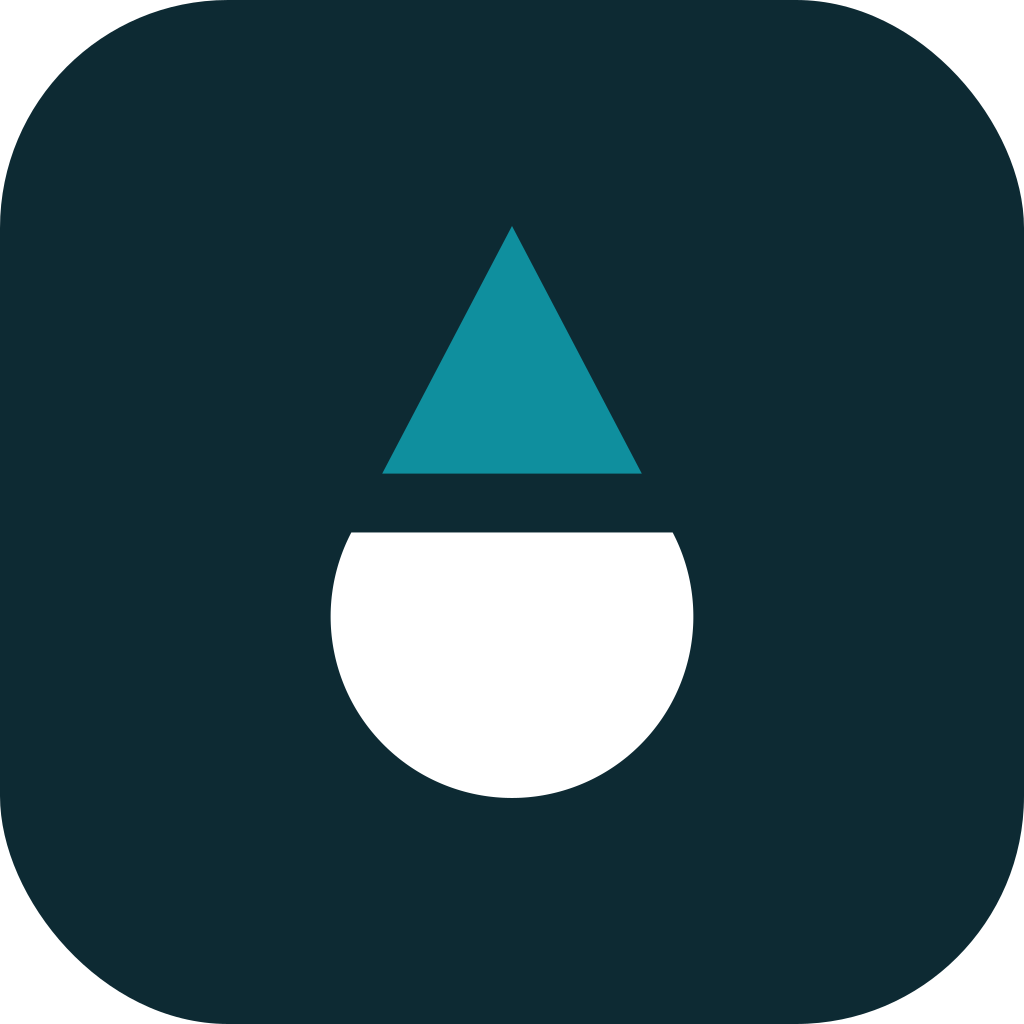
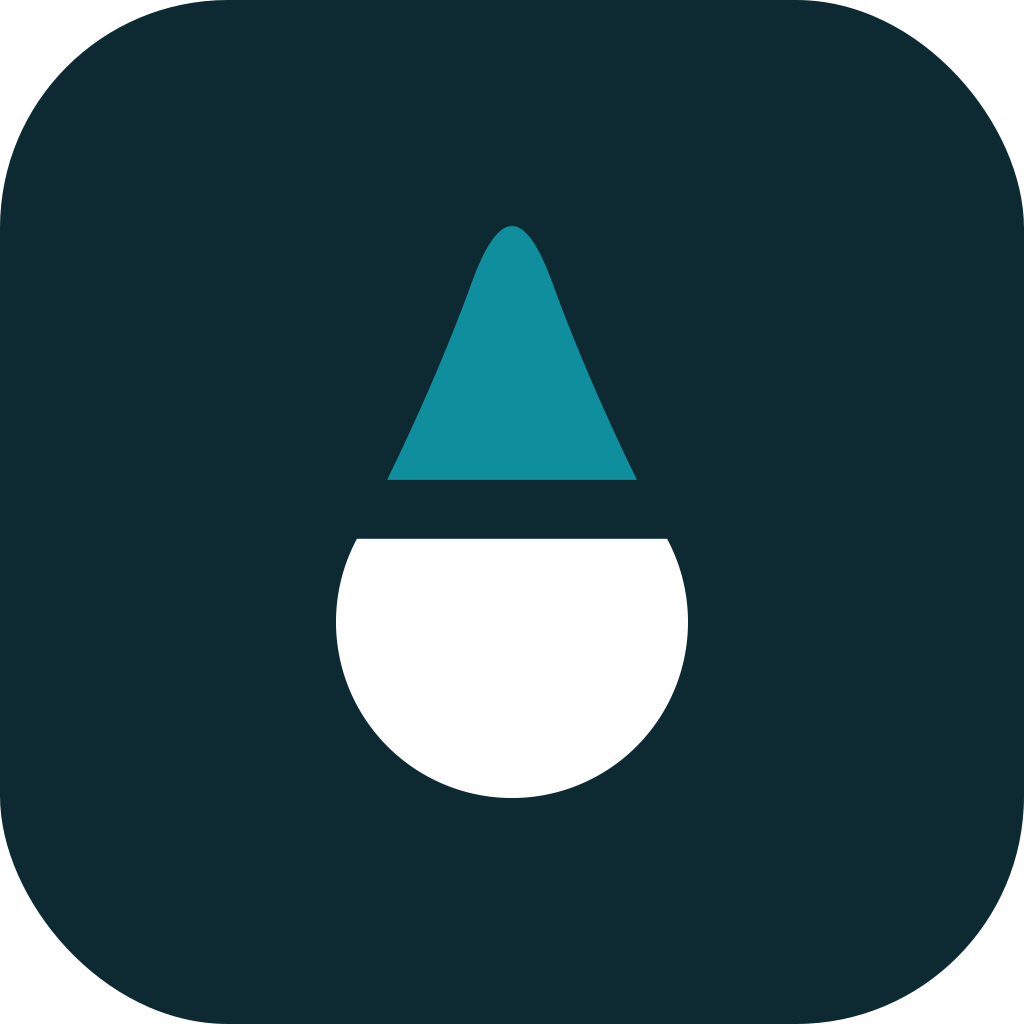
Round the droplet tip and narrow the N in the Veskana mark
- Mark: the upper piece is now a real droplet tip (rounded apex, curved
  shoulders tangent to the chamber circle) instead of a straight-sided
  triangle; geometry moved to mark_geom.py, which splits the outline with
  de Casteljau at the gap line
- Chamber is a clean circle segment, so the shoulders no longer show a notch
- Wordmark: per-letter widths, N narrowed from 72 to 64 units with the stroke
  weight kept, kerning retuned around it
- All SVG and PNG exports and the brand sheet regenerated

Claude-Session: https://claude.ai/code/session_01LhdfHU1fTB6igPiEEq2z7f

diff --git a/brand/veskana/veskana-brand.html b/brand/veskana/veskana-brand.html
@@ -48,10 +48,10 @@ footer{background:var(--ink);color:#9fc0c6;font-size:.85rem;padding-block:30px}
 </style></head><body>
 
 <div class="hero">
-  <svg class="" style="" preserveAspectRatio="xMidYMid meet" xmlns="http://www.w3.org/2000/svg" viewBox="0 0 797.1 132" role="img">
+  <svg class="" style="" preserveAspectRatio="xMidYMid meet" xmlns="http://www.w3.org/2000/svg" viewBox="0 0 782.6 132" role="img">
 <title>Veskana</title>
-<g transform="translate(-43.41862708490329,-16.097560975609756) scale(1.6098)"><path d="M50.0,10.0 L68.61,45.5 L31.39,45.5 Z" fill="#0F8F9E"/><path d="M26.97,53.93 A26.0,26.0 0 1 0 73.03,53.93 Z" fill="#FFFFFF"/></g>
-<g transform="translate(130.14,16.0) scale(1.0)" fill="#FFFFFF">
+<g transform="translate(-42.312030207253805,-11.715976331360947) scale(1.5621)"><path d="M31.55,45.00 C36.18,35.56 40.70,25.11 44.00,16.00 C48.10,4.67 51.90,4.67 56.00,16.00 C59.30,25.11 63.82,35.56 68.45,45.00 Z" fill="#0F8F9E"/><path d="M27.09,53.71 A26,26 0 1 0 72.91,53.71 Z" fill="#FFFFFF"/></g>
+<g transform="translate(127.59,16.0) scale(1.0)" fill="#FFFFFF">
 <g transform="translate(0,0)">
 <path d="M0,0 L14,0 L36,75.9 L58,0 L72,0 L43,100 L29,100 Z"/>
 </g>
@@ -70,12 +70,12 @@ footer{background:var(--ink);color:#9fc0c6;font-size:.85rem;padding-block:30px}
 <path d="M0,100 L14,100 L36,24.1 L58,100 L72,100 L43,0 L29,0 Z"/>
 <path d="M18,62 L54,62 L54,76 L18,76 Z"/>
 </g>
-<g transform="translate(491,0)">
+<g transform="translate(489,0)">
 <path d="M0,0 L14,0 L14,100 L0,100 Z"/>
-<path d="M58,0 L72,0 L72,100 L58,100 Z"/>
-<path d="M0,0 L14,0 L72,78 L72,100 L58,100 L0,22 Z"/>
+<path d="M50,0 L64,0 L64,100 L50,100 Z"/>
+<path d="M0,0 L14,0 L64,74.8 L64,100 L50,100 L0,25.2 Z"/>
 </g>
-<g transform="translate(595,0)">
+<g transform="translate(583,0)">
 <path d="M0,100 L14,100 L36,24.1 L58,100 L72,100 L43,0 L29,0 Z"/>
 <path d="M18,62 L54,62 L54,76 L18,76 Z"/>
 </g>
@@ -102,10 +102,10 @@ footer{background:var(--ink);color:#9fc0c6;font-size:.85rem;padding-block:30px}
   <p class="eyebrow">Varianten</p>
   <h2>Vier bestanden dekken alles</h2>
   <div class="grid c2" style="margin-top:24px">
-    <div><div class="plate"><svg class="" style="" preserveAspectRatio="xMidYMid meet" xmlns="http://www.w3.org/2000/svg" viewBox="0 0 797.1 132" role="img">
+    <div><div class="plate"><svg class="" style="" preserveAspectRatio="xMidYMid meet" xmlns="http://www.w3.org/2000/svg" viewBox="0 0 782.6 132" role="img">
 <title>Veskana</title>
-<g transform="translate(-43.41862708490329,-16.097560975609756) scale(1.6098)"><path d="M50.0,10.0 L68.61,45.5 L31.39,45.5 Z" fill="#0F8F9E"/><path d="M26.97,53.93 A26.0,26.0 0 1 0 73.03,53.93 Z" fill="#0D2A33"/></g>
-<g transform="translate(130.14,16.0) scale(1.0)" fill="#0D2A33">
+<g transform="translate(-42.312030207253805,-11.715976331360947) scale(1.5621)"><path d="M31.55,45.00 C36.18,35.56 40.70,25.11 44.00,16.00 C48.10,4.67 51.90,4.67 56.00,16.00 C59.30,25.11 63.82,35.56 68.45,45.00 Z" fill="#0F8F9E"/><path d="M27.09,53.71 A26,26 0 1 0 72.91,53.71 Z" fill="#0D2A33"/></g>
+<g transform="translate(127.59,16.0) scale(1.0)" fill="#0D2A33">
 <g transform="translate(0,0)">
 <path d="M0,0 L14,0 L36,75.9 L58,0 L72,0 L43,100 L29,100 Z"/>
 </g>
@@ -124,22 +124,22 @@ footer{background:var(--ink);color:#9fc0c6;font-size:.85rem;padding-block:30px}
 <path d="M0,100 L14,100 L36,24.1 L58,100 L72,100 L43,0 L29,0 Z"/>
 <path d="M18,62 L54,62 L54,76 L18,76 Z"/>
 </g>
-<g transform="translate(491,0)">
+<g transform="translate(489,0)">
 <path d="M0,0 L14,0 L14,100 L0,100 Z"/>
-<path d="M58,0 L72,0 L72,100 L58,100 Z"/>
-<path d="M0,0 L14,0 L72,78 L72,100 L58,100 L0,22 Z"/>
+<path d="M50,0 L64,0 L64,100 L50,100 Z"/>
+<path d="M0,0 L14,0 L64,74.8 L64,100 L50,100 L0,25.2 Z"/>
 </g>
-<g transform="translate(595,0)">
+<g transform="translate(583,0)">
 <path d="M0,100 L14,100 L36,24.1 L58,100 L72,100 L43,0 L29,0 Z"/>
 <path d="M18,62 L54,62 L54,76 L18,76 Z"/>
 </g>
 </g>
 </svg>
 </div><div class="cap">Horizontaal · standaard, voor header en briefpapier</div></div>
-    <div><div class="plate dark"><svg class="" style="" preserveAspectRatio="xMidYMid meet" xmlns="http://www.w3.org/2000/svg" viewBox="0 0 797.1 132" role="img">
+    <div><div class="plate dark"><svg class="" style="" preserveAspectRatio="xMidYMid meet" xmlns="http://www.w3.org/2000/svg" viewBox="0 0 782.6 132" role="img">
 <title>Veskana</title>
-<g transform="translate(-43.41862708490329,-16.097560975609756) scale(1.6098)"><path d="M50.0,10.0 L68.61,45.5 L31.39,45.5 Z" fill="#0F8F9E"/><path d="M26.97,53.93 A26.0,26.0 0 1 0 73.03,53.93 Z" fill="#FFFFFF"/></g>
-<g transform="translate(130.14,16.0) scale(1.0)" fill="#FFFFFF">
+<g transform="translate(-42.312030207253805,-11.715976331360947) scale(1.5621)"><path d="M31.55,45.00 C36.18,35.56 40.70,25.11 44.00,16.00 C48.10,4.67 51.90,4.67 56.00,16.00 C59.30,25.11 63.82,35.56 68.45,45.00 Z" fill="#0F8F9E"/><path d="M27.09,53.71 A26,26 0 1 0 72.91,53.71 Z" fill="#FFFFFF"/></g>
+<g transform="translate(127.59,16.0) scale(1.0)" fill="#FFFFFF">
 <g transform="translate(0,0)">
 <path d="M0,0 L14,0 L36,75.9 L58,0 L72,0 L43,100 L29,100 Z"/>
 </g>
@@ -158,21 +158,21 @@ footer{background:var(--ink);color:#9fc0c6;font-size:.85rem;padding-block:30px}
 <path d="M0,100 L14,100 L36,24.1 L58,100 L72,100 L43,0 L29,0 Z"/>
 <path d="M18,62 L54,62 L54,76 L18,76 Z"/>
 </g>
-<g transform="translate(491,0)">
+<g transform="translate(489,0)">
 <path d="M0,0 L14,0 L14,100 L0,100 Z"/>
-<path d="M58,0 L72,0 L72,100 L58,100 Z"/>
-<path d="M0,0 L14,0 L72,78 L72,100 L58,100 L0,22 Z"/>
+<path d="M50,0 L64,0 L64,100 L50,100 Z"/>
+<path d="M0,0 L14,0 L64,74.8 L64,100 L50,100 L0,25.2 Z"/>
 </g>
-<g transform="translate(595,0)">
+<g transform="translate(583,0)">
 <path d="M0,100 L14,100 L36,24.1 L58,100 L72,100 L43,0 L29,0 Z"/>
 <path d="M18,62 L54,62 L54,76 L18,76 Z"/>
 </g>
 </g>
 </svg>
 </div><div class="cap">Omgekeerd · op ink, foto of donkere sectie</div></div>
-    <div><div class="plate"><svg class="" style="max-height:190px" preserveAspectRatio="xMidYMid meet" xmlns="http://www.w3.org/2000/svg" viewBox="0 0 667 312" role="img">
+    <div><div class="plate"><svg class="" style="max-height:190px" preserveAspectRatio="xMidYMid meet" xmlns="http://www.w3.org/2000/svg" viewBox="0 0 655 312" role="img">
 <title>Veskana</title>
-<g transform="translate(231.0609756097561,-20.48780487804878) scale(2.0488)"><path d="M50.0,10.0 L68.61,45.5 L31.39,45.5 Z" fill="#0F8F9E"/><path d="M26.97,53.93 A26.0,26.0 0 1 0 73.03,53.93 Z" fill="#0D2A33"/></g>
+<g transform="translate(228.09171597633133,-14.911242603550296) scale(1.9882)"><path d="M31.55,45.00 C36.18,35.56 40.70,25.11 44.00,16.00 C48.10,4.67 51.90,4.67 56.00,16.00 C59.30,25.11 63.82,35.56 68.45,45.00 Z" fill="#0F8F9E"/><path d="M27.09,53.71 A26,26 0 1 0 72.91,53.71 Z" fill="#0D2A33"/></g>
 <g transform="translate(0,212) scale(1.0)" fill="#0D2A33">
 <g transform="translate(0,0)">
 <path d="M0,0 L14,0 L36,75.9 L58,0 L72,0 L43,100 L29,100 Z"/>
@@ -192,19 +192,19 @@ footer{background:var(--ink);color:#9fc0c6;font-size:.85rem;padding-block:30px}
 <path d="M0,100 L14,100 L36,24.1 L58,100 L72,100 L43,0 L29,0 Z"/>
 <path d="M18,62 L54,62 L54,76 L18,76 Z"/>
 </g>
-<g transform="translate(491,0)">
+<g transform="translate(489,0)">
 <path d="M0,0 L14,0 L14,100 L0,100 Z"/>
-<path d="M58,0 L72,0 L72,100 L58,100 Z"/>
-<path d="M0,0 L14,0 L72,78 L72,100 L58,100 L0,22 Z"/>
+<path d="M50,0 L64,0 L64,100 L50,100 Z"/>
+<path d="M0,0 L14,0 L64,74.8 L64,100 L50,100 L0,25.2 Z"/>
 </g>
-<g transform="translate(595,0)">
+<g transform="translate(583,0)">
 <path d="M0,100 L14,100 L36,24.1 L58,100 L72,100 L43,0 L29,0 Z"/>
 <path d="M18,62 L54,62 L54,76 L18,76 Z"/>
 </g>
 </g>
 </svg>
 </div><div class="cap">Gestapeld · vierkante plekken, verpakking, sticker</div></div>
-    <div><div class="plate white"><svg class="" style="max-height:52px" preserveAspectRatio="xMidYMid meet" xmlns="http://www.w3.org/2000/svg" viewBox="0 0 667 100" role="img" fill="currentColor">
+    <div><div class="plate white"><svg class="" style="max-height:52px" preserveAspectRatio="xMidYMid meet" xmlns="http://www.w3.org/2000/svg" viewBox="0 0 655 100" role="img" fill="currentColor">
 <title>Veskana</title>
 <g transform="translate(0,0) scale(1.0)" fill="currentColor">
 <g transform="translate(0,0)">
@@ -225,12 +225,12 @@ footer{background:var(--ink);color:#9fc0c6;font-size:.85rem;padding-block:30px}
 <path d="M0,100 L14,100 L36,24.1 L58,100 L72,100 L43,0 L29,0 Z"/>
 <path d="M18,62 L54,62 L54,76 L18,76 Z"/>
 </g>
-<g transform="translate(491,0)">
+<g transform="translate(489,0)">
 <path d="M0,0 L14,0 L14,100 L0,100 Z"/>
-<path d="M58,0 L72,0 L72,100 L58,100 Z"/>
-<path d="M0,0 L14,0 L72,78 L72,100 L58,100 L0,22 Z"/>
+<path d="M50,0 L64,0 L64,100 L50,100 Z"/>
+<path d="M0,0 L14,0 L64,74.8 L64,100 L50,100 L0,25.2 Z"/>
 </g>
-<g transform="translate(595,0)">
+<g transform="translate(583,0)">
 <path d="M0,100 L14,100 L36,24.1 L58,100 L72,100 L43,0 L29,0 Z"/>
 <path d="M18,62 L54,62 L54,76 L18,76 Z"/>
 </g>
@@ -244,14 +244,14 @@ footer{background:var(--ink);color:#9fc0c6;font-size:.85rem;padding-block:30px}
   <p class="eyebrow">Klein formaat</p>
   <h2>App-icoon en favicon</h2>
   <div class="sizes" style="margin-top:22px">
[8 lines of base64/hex data omitted]
   </div>
-  <p style="margin-top:20px;font-size:.88rem;color:#6b8288">Onder 24 px vervalt de aqua driehoek naar wit: twee kleuren
+  <p style="margin-top:20px;font-size:.88rem;color:#6b8288">Onder 24 px vervalt de aqua druppelpunt naar wit: twee kleuren
   op die grootte wordt modder. Het bestand <code>veskana-favicon.svg</code> doet dat nog niet automatisch; zet de
-  driehoek op <code>#FFFFFF</code> als je een 16 px versie apart exporteert.</p>
+  druppelpunt op <code>#FFFFFF</code> als je een 16 px versie apart exporteert.</p>
 </div></section>
 
 <section class="mist"><div class="wrap">
@@ -281,7 +281,7 @@ footer{background:var(--ink);color:#9fc0c6;font-size:.85rem;padding-block:30px}
       </ul></div>
     <div class="card bad"><b>Niet</b>
       <ul class="rules" style="margin-top:10px">
-        <li>De spleet dichtmaken of de driehoek laten raken aan de kom: dan is het mechanisme weg.</li>
+        <li>De spleet dichtmaken of de druppelpunt laten raken aan de kom: dan is het mechanisme weg.</li>
         <li>Verhoudingen, tracking of kleuren aanpassen, of het logo op een hoek zetten.</li>
         <li>Een verloop, glans of waterreflectie toevoegen.</li>
         <li>Een pootafdruk, hondensilhouet of waterstraaltje ernaast plaatsen.</li>

diff --git a/brand/veskana/build_logo.py b/brand/veskana/build_logo.py
@@ -18,19 +18,21 @@ L = {
                 "M14,42 L14,62 L52,100 L72,100 Z"]},
  "A": {"fills":["M0,100 L14,100 L36,24.1 L58,100 L72,100 L43,0 L29,0 Z",
                 "M18,62 L54,62 L54,76 L18,76 Z"]},
- "N": {"fills":["M0,0 L14,0 L14,100 L0,100 Z",
-                "M58,0 L72,0 L72,100 L58,100 Z",
-                "M0,0 L14,0 L72,78 L72,100 L58,100 L0,22 Z"]},
+ "N": {"w":64,
+       "fills":["M0,0 L14,0 L14,100 L0,100 Z",
+                "M50,0 L64,0 L64,100 L50,100 Z",
+                "M0,0 L14,0 L64,74.8 L64,100 L50,100 L0,25.2 Z"]},
 }
-WORD, ADV, LW, CAP = "VESKANA", 96, 72, 100
+WORD, TRACK, LW, CAP = "VESKANA", 24, 72, 100
+def lw(ch): return L[ch].get("w", LW)
 # optische kerning: schuine letters (V, A, K) hebben andere witruimte dan rechte
-KERN = {"VE": -8, "ES": 0, "SK": 3, "KA": 10, "AN": 6, "NA": 8}
+KERN = {"VE": -8, "ES": 0, "SK": 3, "KA": 10, "AN": 4, "NA": 6}
 OFFS, _x = [], 0.0
 for _i, _c in enumerate(WORD):
     OFFS.append(_x)
     if _i < len(WORD)-1:
-        _x += ADV + KERN.get(WORD[_i:_i+2], 0)
-WORD_W = OFFS[-1] + LW
+        _x += lw(_c) + TRACK + KERN.get(WORD[_i:_i+2], 0)
+WORD_W = OFFS[-1] + lw(WORD[-1])
 
 def wordmark(color="currentColor", x=0, y=0, scale=1.0):
     out = [f'<g transform="translate({x},{y}) scale({scale})" fill="{color}">']
@@ -44,20 +46,11 @@ def wordmark(color="currentColor", x=0, y=0, scale=1.0):
     out.append('</g>')
     return "\n".join(out)
 
-# ---------- merkteken: druppel gesplitst door de filterspleet ----------
-# Bovenste driehoek = water dat binnenkomt. Onderste kom = de gesloten pompkamer.
-# De spleet ertussen IS het mechanisme: eerst de filter, dan de pomp.
-APEX=(50.0,10.0); C=(50.0,66.0); R=26.0
-d   = C[1]-APEX[1]
-th  = math.acos(R/d)
-TLx = C[0]-R*math.sin(th); TLy = C[1]-R*math.cos(th)
-TRx = C[0]+R*math.sin(th)
-CUT = 45.5
-t   = (CUT-APEX[1])/(TLy-APEX[1])
-CLx = APEX[0]-t*(APEX[0]-TLx); CRx = APEX[0]+t*(APEX[0]-TLx)
-MARK_TRI  = f"M{APEX[0]},{APEX[1]} L{CRx:.2f},{CUT} L{CLx:.2f},{CUT} Z"
-MARK_BOWL = f"M{TLx:.2f},{TLy:.2f} A{R},{R} 0 1 0 {TRx:.2f},{TLy:.2f} Z"
-MARK_TOP, MARK_BOT = APEX[1], C[1]+R          # 10 .. 92
+# ---------- merkteken ----------
+# Boven de spleet het water dat binnenkomt, onder de spleet de gesloten kamer:
+# eerst de filter, dan de pomp. Geometrie staat in mark_geom.py.
+from mark_geom import MARK_TRI, MARK_BOWL, MARK_TOP, MARK_BOT, MARK_L, MARK_R
+TLx, TRx = MARK_L, MARK_R
 
 def mark(color="currentColor", accent=None, x=0, y=0, scale=1.0):
     a = accent or color
@@ -139,4 +132,4 @@ body = ('<title>Veskana</title>\n'
         + "\n" + wordmark(INK, x=0, y=168+gap2))
 write("veskana-logo-stacked-colour.svg", svg(WORD_W, toth2, body))
 
-print("\nmerkteken inkt: %.1f x %.1f  |  spleet %.1f" % (TRx-TLx, MARK_BOT-MARK_TOP, TLy-CUT))
+print("\nmerkteken inkt: %.1f x %.1f  |  wordmark: %.0f x %d" % (MARK_R-MARK_L, MARK_BOT-MARK_TOP, WORD_W, CAP))

diff --git a/brand/veskana/mark_geom.py b/brand/veskana/mark_geom.py
@@ -1,0 +1,63 @@
+"""Merkteken: echte druppel met afgeronde punt, doorgesneden door de filterspleet."""
+import math
+
+CX, CY, R = 50.0, 66.0, 26.0     # kamer (onderste vorm)
+PHI       = math.radians(61.8)     # waar de zijkant de cirkel raakt
+TIP_W, TIP_Y, APEX_Y = 6.0, 16.0, 7.5
+T3        = (0.34, -0.94)        # richting waarmee de zijkant bij de punt aankomt
+HANDLE    = 0.31
+GAP_TOP = 45.0                   # de spleet loopt tot aan het raakpunt van de kamer
+
+TLx, TLy = CX - R*math.sin(PHI), CY - R*math.cos(PHI)
+TRx      = CX + R*math.sin(PHI)
+P0 = (TLx, TLy)
+P3 = (CX - TIP_W, TIP_Y)
+_t0 = (math.cos(PHI), -math.sin(PHI))
+_len = math.hypot(P3[0]-P0[0], P3[1]-P0[1])
+_a = HANDLE*_len
+C1 = (P0[0] + _a*_t0[0], P0[1] + _a*_t0[1])
+C2 = (P3[0] - _a*T3[0], P3[1] - _a*T3[1])
+CURVE = (P0, C1, C2, P3)
+
+def _lerp(a, b, t): return (a[0]+(b[0]-a[0])*t, a[1]+(b[1]-a[1])*t)
+def bez(c, t):
+    a, b, d = _lerp(c[0],c[1],t), _lerp(c[1],c[2],t), _lerp(c[2],c[3],t)
+    e, f = _lerp(a,b,t), _lerp(b,d,t)
+    return _lerp(e,f,t)
+def split(c, t):
+    a, b, d = _lerp(c[0],c[1],t), _lerp(c[1],c[2],t), _lerp(c[2],c[3],t)
+    e, f = _lerp(a,b,t), _lerp(b,d,t)
+    g = _lerp(e,f,t)
+    return (c[0],a,e,g), (g,f,d,c[3])
+def t_at_y(c, y):
+    lo, hi = 0.0, 1.0
+    for _ in range(60):
+        m = (lo+hi)/2
+        if bez(c, m)[1] > y: lo = m
+        else: hi = m
+    return (lo+hi)/2
+
+t_top = t_at_y(CURVE, GAP_TOP)
+_, TOP_SEG  = split(CURVE, t_top)          # van de spleet naar de punt
+
+def mir(p): return (100.0-p[0], p[1])
+def f(p): return f"{p[0]:.2f},{p[1]:.2f}"
+
+# punt: vloeiende kap, hoogte APEX_Y, raaklijn sluit aan op de zijkanten
+_m = (TIP_Y-APEX_Y)/(0.75*abs(T3[1]))
+K1 = (CX-TIP_W + _m*T3[0], TIP_Y + _m*T3[1])
+K2 = mir(K1)
+TIPL, TIPR = (CX-TIP_W, TIP_Y), (CX+TIP_W, TIP_Y)
+
+a0,a1,a2,a3 = TOP_SEG
+MARK_TRI = (f"M{f(a0)} C{f(a1)} {f(a2)} {f(a3)} "
+            f"C{f(K1)} {f(K2)} {f(TIPR)} "
+            f"C{f(mir(a2))} {f(mir(a1))} {f(mir(a0))} Z")
+
+MARK_BOWL = f"M{TLx:.2f},{TLy:.2f} A{R:g},{R:g} 0 1 0 {TRx:.2f},{TLy:.2f} Z"
+
+MARK_TOP, MARK_BOT = APEX_Y, CY + R
+MARK_L,  MARK_R    = TLx, TRx
+if __name__ == "__main__":
+    print("punt y=%.1f  spleet %.1f..%.2f (%.1f)  kamer tot y=%.0f" % (APEX_Y, GAP_TOP, TLy, TLy-GAP_TOP, MARK_BOT))
+    print("breedte inkt %.2f .. %.2f" % (MARK_L, MARK_R))

diff --git a/brand/veskana/build_sheet.py b/brand/veskana/build_sheet.py
@@ -100,9 +100,9 @@ footer{{background:var(--ink);color:#9fc0c6;font-size:.85rem;padding-block:30px}
     <figure><img src="{png("veskana-favicon-32.png")}" width="32" height="32" alt=""><figcaption>32 px · favicon</figcaption></figure>
     <figure><img src="{png("veskana-favicon-16.png")}" width="16" height="16" alt=""><figcaption>16 px</figcaption></figure>
   </div>
-  <p style="margin-top:20px;font-size:.88rem;color:#6b8288">Onder 24 px vervalt de aqua driehoek naar wit: twee kleuren
+  <p style="margin-top:20px;font-size:.88rem;color:#6b8288">Onder 24 px vervalt de aqua druppelpunt naar wit: twee kleuren
   op die grootte wordt modder. Het bestand <code>veskana-favicon.svg</code> doet dat nog niet automatisch; zet de
-  driehoek op <code>#FFFFFF</code> als je een 16 px versie apart exporteert.</p>
+  druppelpunt op <code>#FFFFFF</code> als je een 16 px versie apart exporteert.</p>
 </div></section>
 
 <section class="mist"><div class="wrap">
@@ -132,7 +132,7 @@ footer{{background:var(--ink);color:#9fc0c6;font-size:.85rem;padding-block:30px}
       </ul></div>
     <div class="card bad"><b>Niet</b>
       <ul class="rules" style="margin-top:10px">
-        <li>De spleet dichtmaken of de driehoek laten raken aan de kom: dan is het mechanisme weg.</li>
+        <li>De spleet dichtmaken of de druppelpunt laten raken aan de kom: dan is het mechanisme weg.</li>
         <li>Verhoudingen, tracking of kleuren aanpassen, of het logo op een hoek zetten.</li>
         <li>Een verloop, glans of waterreflectie toevoegen.</li>
         <li>Een pootafdruk, hondensilhouet of waterstraaltje ernaast plaatsen.</li>
